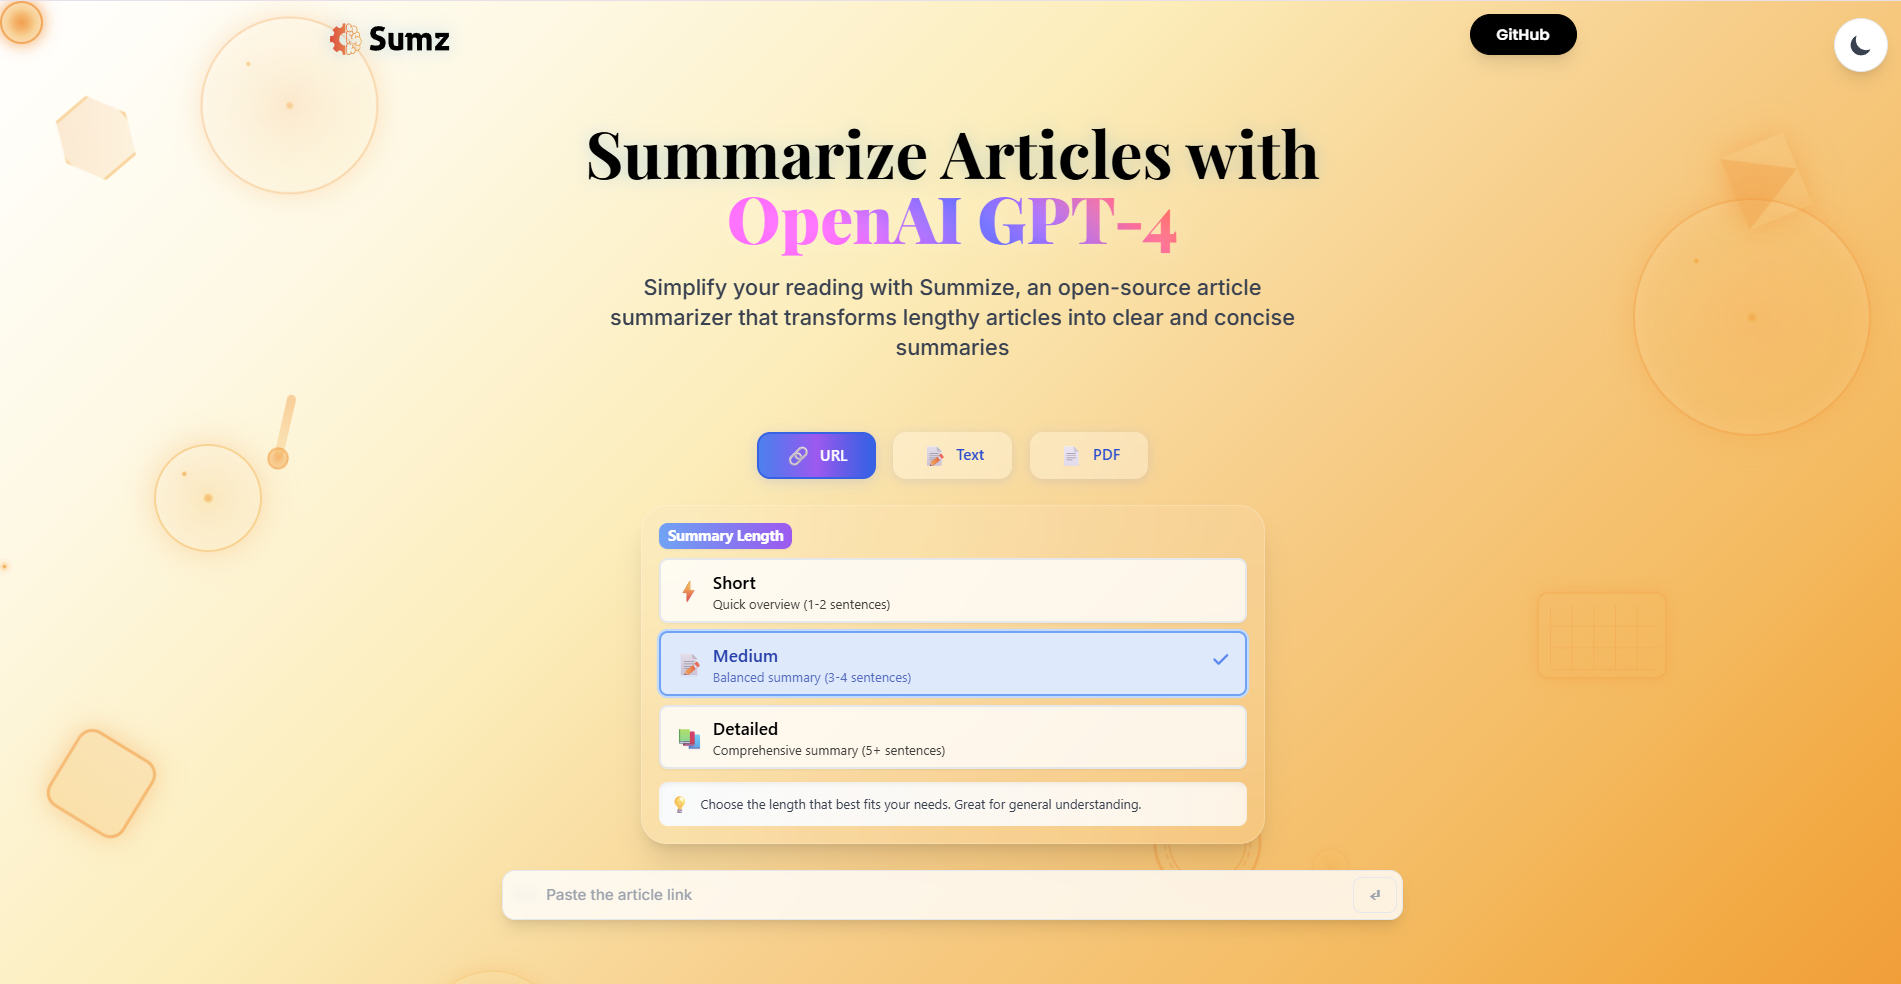
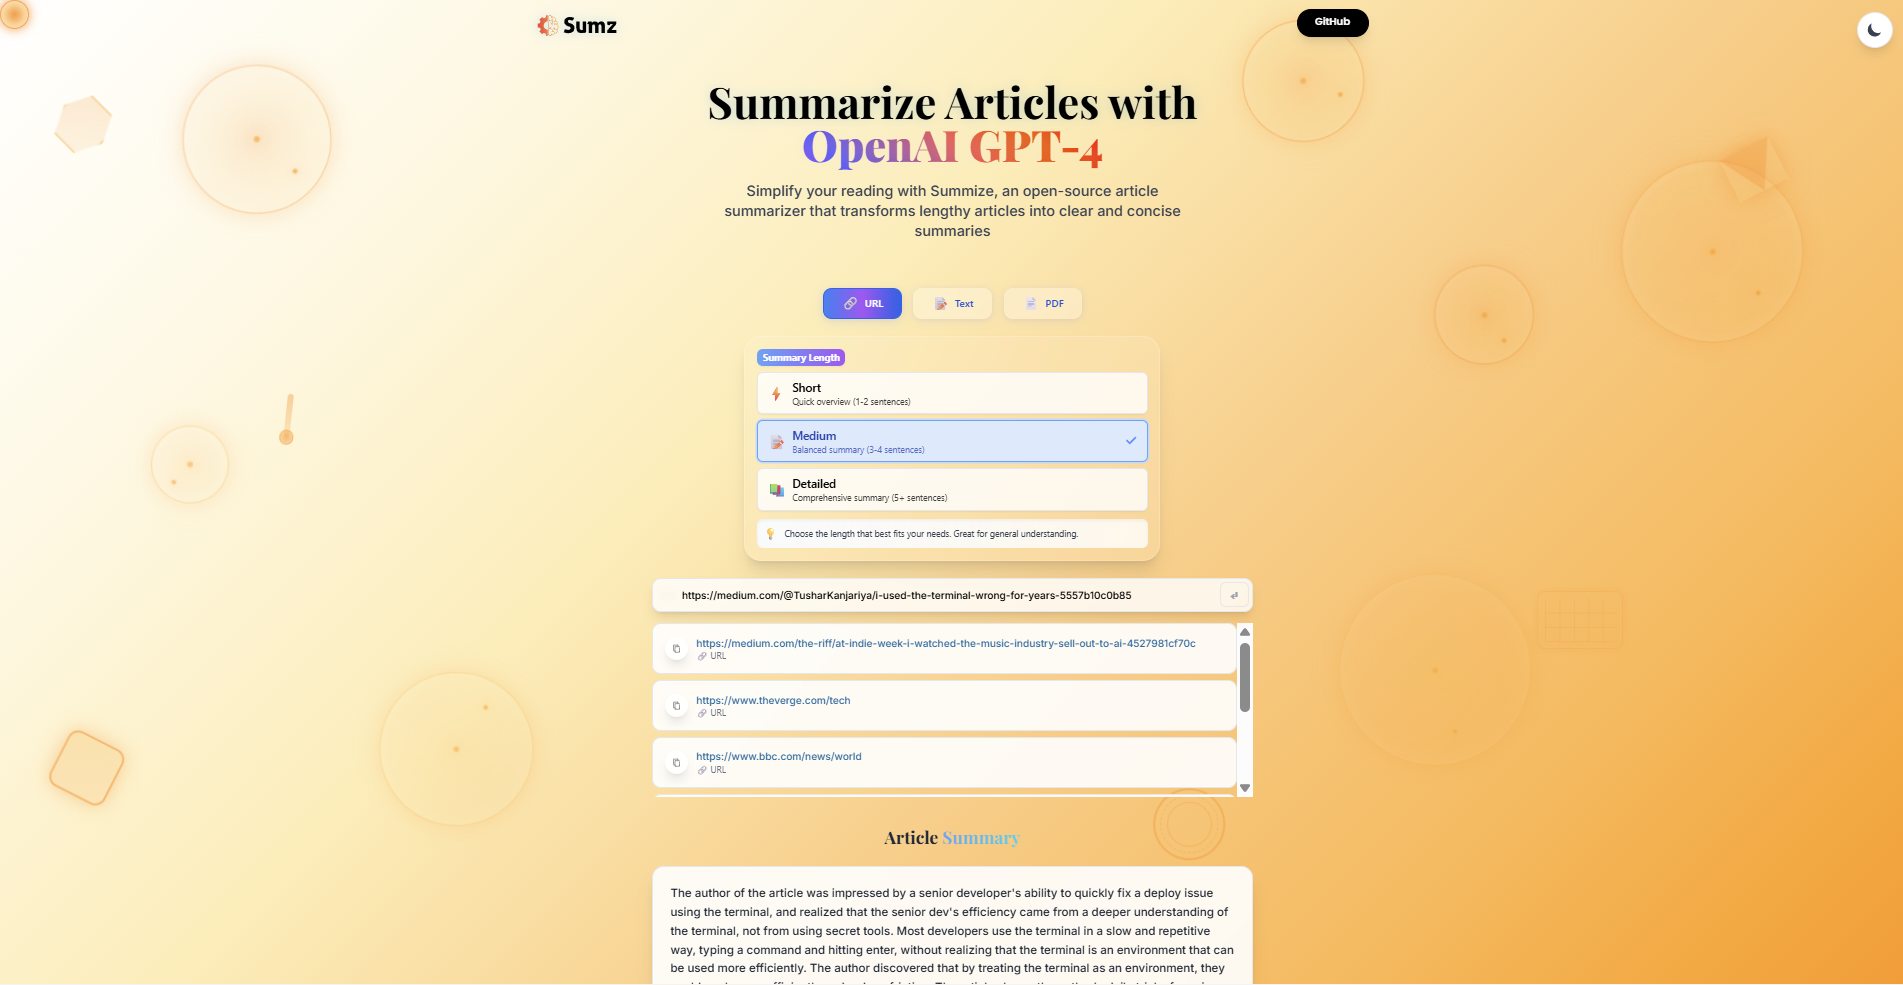
added new projects

diff --git a/src/constants/index.js b/src/constants/index.js
@@ -2,7 +2,6 @@ import project1 from "../assets/projects/project-1.png";
 import project2 from "../assets/projects/project-2.png";
 import project3 from "../assets/projects/project-3.png";
 import project4 from "../assets/projects/project-4.png";
-import project5 from "../assets/projects/project-5.png";
 
 export const HERO_CONTENT = `Full Stack Developer building scalable REST APIs and production web apps with the MERN stack, Next.js, and Microsoft Azure. Currently at NIIT Limited as an Associate Software Engineer, working on Salesforce CRM administration, data operations, and enterprise platform workflows. Hackathon winner (Chainlink, Monad Blitz) with 400+ LeetCode problems solved.`;
 
@@ -131,31 +130,36 @@ export const PROJECTS = [
       "Supabase",
     ],
     github: "https://github.com/Harshitt23/Ai-interview-Collaboration-platform",
-    live: "https://ai-interview-collaboration-platform-ixjp6ulut.vercel.app",
+    live: "https://ai-interview-collaboration-platform.vercel.app",
   },
   {
-    title: "Dabas EV CMS",
+    title: "Kairo – Multi-Tenant Project Management SaaS",
     image: project4,
     description:
-      "Freelance CMS for Dabas EV — secure admin authentication, role-based access, and scalable APIs for content, media, and page management.",
+      "Production-shaped, multi-tenant project-management SaaS (Linear/Jira-style) — workspaces → teams → projects → issues, with a real-time drag-and-drop board, RBAC enforced client and server, and Stripe billing.",
     keyFeatures: [
-      "JWT-based admin authentication & RBAC",
-      "Scalable REST APIs for content & media",
-      "Platform supporting 5k+ EV users in India",
-      "Built with a 4-developer team",
+      "Postgres row-level security backs tenant isolation on every request",
+      "Rotating refresh tokens with theft/reuse detection, RBAC shared client + server",
+      "Real-time optimistic Kanban board synced via Redis-backed Socket.IO",
+      "Background jobs (BullMQ) for notifications/email; presigned S3/R2 uploads",
+      "Stripe Checkout + webhooks with graceful FREE-plan fallback",
     ],
     technologies: [
       "Next.js",
-      "React.js",
-      "Node.js",
-      "Express.js",
-      "JWT",
-      "REST APIs",
-      "MongoDB",
+      "TypeScript",
+      "NestJS",
+      "Prisma",
+      "PostgreSQL",
+      "Redis",
+      "Socket.IO",
+      "BullMQ",
+      "Stripe",
+      "Turborepo",
       "Vercel",
+      "Render",
     ],
-    github: "https://github.com/Harshitt23/Dabas.EV",
-    live: "https://dabas-m6ox1k1fe-harshitt23s-projects.vercel.app",
+    github: "https://github.com/Harshitt23/Ai-saas-multi-tenant",
+    live: "https://kairo-multi-tenant-web.vercel.app",
   },
   {
     title: "AI Article Summarizer",
@@ -177,7 +181,7 @@ export const PROJECTS = [
       "OpenAI GPT-4",
     ],
     github: "https://github.com/Harshitt23/Ai-Summarizer",
-    live: "https://ai-summarizer-gvvduccbr-harshitt23s-projects.vercel.app",
+    live: "https://ai-summarizer-nu-six.vercel.app",
   },
   {
     title: "BiteTok – Food Video Platform",
@@ -201,29 +205,7 @@ export const PROJECTS = [
       "ImageKit",
     ],
     github: "https://github.com/Harshitt23/BiteTok",
-    live: "https://bite-tok-frontend-252kg3z2u-harshitt23s-projects.vercel.app",
-  },
-  {
-    title: "Student Knowledge Hub",
-    image: project5,
-    description:
-      "Platform where students upload, explore, and access study notes, PYQs, and learning resources with search and filtering.",
-    keyFeatures: [
-      "Upload and browse notes, PYQs, and resources",
-      "Search and filtering for quick discovery",
-      "REST APIs and database-backed content management",
-      "Scalable note-sharing for students",
-    ],
-    technologies: [
-      "React.js",
-      "Node.js",
-      "Express.js",
-      "MongoDB",
-      "REST APIs",
-      "JWT",
-    ],
-    github: "https://github.com/Harshitt23",
-    live: "https://github.com/Harshitt23",
+    live: "https://bite-tok-frontend.vercel.app",
   },
 ];
 
